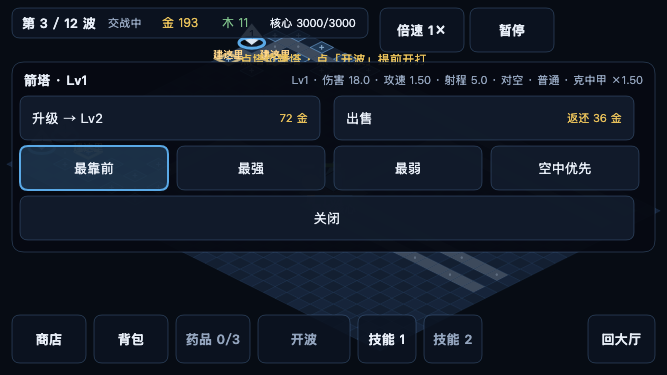
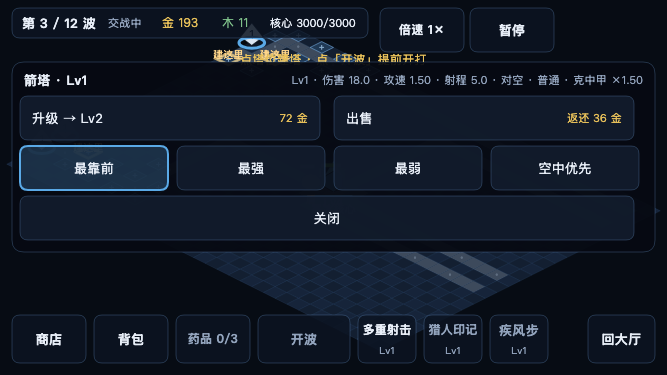
feat(minigame): 补两个功能缺口——第三颗技能键、上次配置一键开局
换了把尺子量（不再问「哪条路会崩」，而是「浏览器版有的，小游戏有没有」），抓到两个真缺口：

- 第三颗技能键：商店卖的「技能书·秘传」会解锁第三个技能，而底部那排写死了两颗
  （for i < 2）——买了等于白买，界面上一个字都没提。现在按内核的技能表画，
  名字/等级/冷却走 skillLevel(m, def) 那一个出口，键上写技能名 + Lv1/冷却秒数，
  未解锁的也摆着但灰掉（与浏览器版一致，玩家看得见「书能解锁它」）
- 上次配置一键开局（§2.1）：小游戏大厅从不记 lastChoice，选了噩梦难度重开就回普通。
  现在开局记一笔、大厅读回来，读之前过 normalizeChoice（§177：跨版本脏值不许把大厅带崩），
  上次那张图没解锁时只落回图、其余照旧沿用

用例 +3（技能布局 / 买书 E2E / lastChoice 三种情形），两条变异反证；样张重出。
npm test 309 → 312；minigame 6 条全过；主包 17 模块 / 359.3 KB。

diff --git a/src/minigame/game.js b/src/minigame/game.js
@@ -4,10 +4,10 @@
 // `index.html` + `styles.css` + `ui.js` 那套 DOM+CSS。这一步做的是把**平台差异**与**打包**解决掉，
 // 并把不依赖 DOM 的那一大半（内核、数据表、存档、联机协议、平台适配）先在小游戏里跑通。
 // 界面换 Canvas 是第 3 步，见 docs/minigame-port.md。
-import { DEFENSE_MAPS, MAPS, TICK_STEP } from '../data.js';
+import { DEFENSE_MAPS, MAPS, TICK_STEP, normalizeChoice } from '../data.js';
 import {
   buildTower, buyItem, castSkill, craftEquipment, createMatch, describe as describeMatch, equipItem,
-  enhanceItem, potionCount, repairTower, sellItem, sellTower, setPriority, startWaveEarly,
+  enhanceItem, potionCount, repairTower, sellItem, sellTower, setPriority, skillLevel, startWaveEarly,
   towerAtSlot, update, upgradeTower, usePotion,
 } from '../match.js';
 import { isMiniGame, onHide, onTouch, storage, viewport } from '../platform.js';
@@ -50,14 +50,20 @@ export function createLobbyModel(profile = loadProfile()) {
     const lock = mapLocked(profile, id);
     if (lock) locked[id] = lock.text;
   }
-  const mode = 'td';
+  /**
+   * §2.1「上次配置一键开局」：档案里存着上一局用过的模式 / 地图 / 难度 / 英雄 / 时长，就照它选。
+   * 过一遍 `normalizeChoice`（`data.js` 那一份归一化）——跨版本的脏值不许把大厅带崩（§177 的同一道边界）。
+   * 上次那张图要**这会儿还解锁着**才用：档案被重置过、或者版本换了锁法时落回该模式的第一张。
+   */
+  const last = normalizeChoice(profile.lastChoice ?? {});
+  const mode = last.mode;
   const pool = mode === 'defense' ? unlockedDef : unlockedTd;
   return {
     mode,
-    map: pool[0] ?? 'map_01',
-    difficulty: 'normal',
-    length: 'short',
-    hero: 'hero_warrior',
+    map: pool.includes(last.map) ? last.map : (pool[0] ?? (mode === 'defense' ? 'def_01' : 'map_01')),
+    difficulty: last.difficulty,
+    length: last.length,
+    hero: last.hero,
     profile,
     unlocked: [...unlockedTd, ...unlockedDef],
     locked,
@@ -192,6 +198,16 @@ export function startMinigame({ requestAnimationFrame: raf = globalThis.requestA
     const tutorial = m.mode === 'defense' || !isFirstRun(lobby.model.profile)
       ? null
       : createTutorial({ startedAt: 0 });
+    /**
+     * §2.1「上次配置一键开局」：把这一局用的那套配置记进档案（浏览器版 `main.js` 在 `startMatch`
+     * 里同一处干这件事）。下次打开大厅就照着选——小游戏以前从来不记，所以「上次选了噩梦难度」
+     * 每次重开都回到普通。存不了不影响这一局（与记档同一套写法）。
+     */
+    lobby.model = {
+      ...lobby.model,
+      profile: { ...lobby.model.profile, lastChoice: { ...pickLobbyKeys(lobby.model) } },
+    };
+    try { saveProfile(lobby.model.profile); } catch { /* 存不了就只在这一次生效 */ }
     return buildBattle(m, { tutorial });
   };
 
@@ -844,10 +860,22 @@ const describeBattleModel = (m) => ({
   gold: Math.round(m.gold), core: m.core.hp, coreMax: m.core.maxHp,
   result: m.result, length: m.length,
   canEarly: m.wave.phase === 'prep' && m.wave.timer > 0,
-  skills: m.hero.skillUnlocked,
   // 底部那排要显示的数量：药品格数（§5.5.3：共 3 格）与背包件数
   potionCount: potionCount(m),
   bagCount: m.inventory?.length ?? 0,
+  /**
+   * 技能键：**名字 / 等级 / 冷却都走内核那一个出口**（与浏览器版 `ui.js` 的 `renderSkills` 同一套：
+   * `hero.def.skills` + `thirdSkill`、`skillUnlocked`、`skillCd`、`skillLevel(m, def)`）。
+   *
+   * 小游戏这边以前只画两个写死的「技能 1 / 技能 2」——于是商店里卖的**技能书·秘传
+   * 把第三个技能解锁了，玩家却找不到那个按钮**（买了等于白买，界面上一个字都没提）。
+   */
+  skills: [...m.hero.def.skills, m.hero.def.thirdSkill].filter(Boolean).map((def, i) => ({
+    name: def.name,
+    locked: !m.hero.skillUnlocked[i],
+    cd: m.hero.skillCd?.[i] ?? 0,
+    lv: skillLevel(m, def),
+  })),
 });
 
 /** 回大厅时保留玩家刚选的模式/地图/难度/英雄（大厅的状态在进局那一刻被 Battle 接管了） */

diff --git a/src/minigame/battle.js b/src/minigame/battle.js
@@ -77,10 +77,17 @@ export function layoutBattle(model = {}) {
   items.push(model.result
     ? item('restart', 258, 315, 92, 48, '再开一局', { type: 'restart' })
     : item('early', 258, 315, 92, 48, '开波', { type: 'early' }, { disabled: !model.canEarly }));
-  for (let i = 0; i < 2; i += 1) {
-    items.push(item(`skill-${i}`, 358 + i * 66, 315, 58, 48, i === 0 ? '技能 1' : '技能 2',
-      { type: 'skill', index: i }, { disabled: !(model.skills?.[i] ?? i === 0) }));
-  }
+  /**
+   * 技能键：模型里给几个就画几个（首发 2 个 + 技能书解锁的第 3 个）。**写死两个是不行的**——
+   * 商店里卖的「技能书·秘传」会把第三个技能解锁，可按钮不存在的话玩家买了等于白买。
+   * 每颗键写：技能名 + 一行副标（冷却中写秒数，否则写等级）——与浏览器版技能键同一套读数（§132）。
+   */
+  const skills = model.skills ?? [{ name: '技能 1' }, { name: '技能 2' }];
+  skills.forEach((sk, i) => {
+    items.push(item(`skill-${i}`, 358 + i * 66, 315, 58, 48, sk.name ?? `技能 ${i + 1}`,
+      { type: 'skill', index: i },
+      { disabled: !!sk.locked || sk.cd > 0, sub: sk.cd > 0 ? `${Math.ceil(sk.cd)}s` : (sk.lv ? `Lv${sk.lv}` : '') }));
+  });
   items.push(item('lobby', 588, 315, 67, 48, '回大厅', { type: 'lobby' }));
   /**
    * 顶栏右侧那两个键：**倍速**与**暂停**（§1.9.3 的设置、§1.9.4 的「随时能停」）。
@@ -153,9 +160,15 @@ export function drawBattleHud(ctx, m, L, { selectedTower = 'tw_arrow', message =
     ctx.strokeStyle = on ? COLORS.accent : COLORS.panelLine;
     ctx.lineWidth = on ? 2 : 1;
     ctx.stroke();
-    text(ctx, it.label, it.x + it.w / 2, it.y + it.h / 2, {
-      size: 13, align: 'center', color: it.disabled ? COLORS.dim : COLORS.ink, weight: 'bold',
+    // 有副标就两行写（技能键的「名字 + Lv/冷却秒数」）；没有副标的键位置与以前一模一样
+    const cx = it.x + it.w / 2, cy = it.y + it.h / 2;
+    text(ctx, it.label, cx, it.sub ? cy - 9 : cy, {
+      size: it.label.length > 3 ? 12 : 13, align: 'center',
+      color: it.disabled ? COLORS.dim : COLORS.ink, weight: 'bold',
     });
+    if (it.sub) {
+      text(ctx, it.sub, cx, cy + 11, { size: 10, align: 'center', color: COLORS.dim });
+    }
   }
 
   if (message) {

diff --git a/docs/STATUS.md b/docs/STATUS.md
@@ -21,7 +21,7 @@
 ## 2. 一条命令复跑全部验证
 
 ```bash
-npm test        # 309 项：数值 / 波次 / 经济 / 装备 / 天赋 / 技能细节 / 存档 / 联机 / 快速匹配 / 触觉反馈 / 摇杆指令 / 溅射衰减 / 药品计数 / 解锁来源与流水 / 野外区分区 / 亚格渲染 / 克制提示 / 局内资源不外流 / 仇恨 1 秒 / 野外区文案 / 战绩分模式 / 面板可见性 / 浮层收起 / 房间码提示 / 空房保留窗口 / 联机指令出口（handler 逐个查）/ 畸形指令与限速 / 克制表与枚举对齐 / 联机镜像不落本地存档（§113） / 大厅按模式给选项（§115：防守没有「局内时长」） / 低特效档真的关脉冲（§116） / 怪物光环按半径结算（§117） / Boss 光环按地图开关（§118） / 逻辑帧步长只有一个定义（§119） / 协议版本两侧校验（§120） / 畸形 URL 参数不崩服务端（§121） / 别人的名字不执行（§122） / 名字长度截断（§122） / 畸形指令值不崩服务端（§123） / 房间码不可枚举（§124） / 名单不广播 uid（§125） / 调试钩子默认关（§126）与「只在本地生效」（§197）/  免费期无付费入口（§128） / 联机结算面板也写「声望 +N」（§130） / 通关转无尽的出口（§131） / 精研技能书真的 +1 级（§132） / 狂战药剂真的持续 30 秒（§133） / 防守模式 buff 生效与疾风步移速（§134） / 两模式英雄 tick 职责对齐（§135） / 亡语分裂在防守里也生效（§136） / 防守的怪也吃减速眩晕 DoT（§137） / 防守内容不许带未实现能力（§138） / 「继续上局」只在**真读得出来**时出现（§139 + §204） /  **疾行药剂在两个模式都生效（§144） / **回城冷却进存档且真的走满 30 秒（§147） / **联机修塔真的生效、TD 专属指令在防守房被拒（§148） / **联机结算的伤害占比不为空、防守占比条写中文名（§149） / **结算面板的掉落栏写中文名（§151） / **快速匹配排队时写明「在等」（§152） / **新手引导的门槛与「重看」（§153） / **文案里的数字与数据表对账（§155） / ****临时端口串门与僵尸根因（§157）** / **4★-6★ 图能从大厅选到（§158） / **真机视口下大厅动作行粘底（§159） / **结算面板出口也粘底（§160） / **真机视口下防守 HUD 紧凑排布（§161） / **真机视口下引导条不压操作行（§162） / **联机长局镜像换成 30 波表（§163）/**§130 偶发红改成确定性（§164） / **联机怪物血条分母（§165）** / **联机房英雄职业进配置（§166）** / **浸泡不变量补五项（§167） / **真机视口下防守人体工学（§168）** / **§2.2 地图表逐列对账（§169） / **其余五张数值表逐列对账（§170） / **真机上的双指缩放与双击回核心（§171） / **把量出的偏差写回设计文档（§172） / **复跑三张数字表（§173） / **协议消息类型两边都要有人用（§174） / **零读者的导出扫干净（§175）** / **用到的 class 都有样式规则（§176）** / **客户端开局参数归一化（§177：坏 URL 不白屏 + 不污染档案）** / **缺 seed 的房间不再是常数种子（§177）** / **提示音在真机手势里解锁、日志不再谎报（§178）** / **真机手势卫生：连点技能键/长按不再被浏览器抢走（§180）** / **HUD 按安全区收边、不再压进刘海（§181）** / **冒烟的 CDP 请求加上限、不再偶发挂死（§182）** / **存不了档时说一声（§183）** / **大厅里不再偷偷打那一局（§184：不跑模拟、不出怪、不记档）** / **竖屏兜底「请横屏」（§185）**…
+npm test        # 312 项：数值 / 波次 / 经济 / 装备 / 天赋 / 技能细节 / 存档 / 联机 / 快速匹配 / 触觉反馈 / 摇杆指令 / 溅射衰减 / 药品计数 / 解锁来源与流水 / 野外区分区 / 亚格渲染 / 克制提示 / 局内资源不外流 / 仇恨 1 秒 / 野外区文案 / 战绩分模式 / 面板可见性 / 浮层收起 / 房间码提示 / 空房保留窗口 / 联机指令出口（handler 逐个查）/ 畸形指令与限速 / 克制表与枚举对齐 / 联机镜像不落本地存档（§113） / 大厅按模式给选项（§115：防守没有「局内时长」） / 低特效档真的关脉冲（§116） / 怪物光环按半径结算（§117） / Boss 光环按地图开关（§118） / 逻辑帧步长只有一个定义（§119） / 协议版本两侧校验（§120） / 畸形 URL 参数不崩服务端（§121） / 别人的名字不执行（§122） / 名字长度截断（§122） / 畸形指令值不崩服务端（§123） / 房间码不可枚举（§124） / 名单不广播 uid（§125） / 调试钩子默认关（§126）与「只在本地生效」（§197）/  免费期无付费入口（§128） / 联机结算面板也写「声望 +N」（§130） / 通关转无尽的出口（§131） / 精研技能书真的 +1 级（§132） / 狂战药剂真的持续 30 秒（§133） / 防守模式 buff 生效与疾风步移速（§134） / 两模式英雄 tick 职责对齐（§135） / 亡语分裂在防守里也生效（§136） / 防守的怪也吃减速眩晕 DoT（§137） / 防守内容不许带未实现能力（§138） / 「继续上局」只在**真读得出来**时出现（§139 + §204） /  **疾行药剂在两个模式都生效（§144） / **回城冷却进存档且真的走满 30 秒（§147） / **联机修塔真的生效、TD 专属指令在防守房被拒（§148） / **联机结算的伤害占比不为空、防守占比条写中文名（§149） / **结算面板的掉落栏写中文名（§151） / **快速匹配排队时写明「在等」（§152） / **新手引导的门槛与「重看」（§153） / **文案里的数字与数据表对账（§155） / ****临时端口串门与僵尸根因（§157）** / **4★-6★ 图能从大厅选到（§158） / **真机视口下大厅动作行粘底（§159） / **结算面板出口也粘底（§160） / **真机视口下防守 HUD 紧凑排布（§161） / **真机视口下引导条不压操作行（§162） / **联机长局镜像换成 30 波表（§163）/**§130 偶发红改成确定性（§164） / **联机怪物血条分母（§165）** / **联机房英雄职业进配置（§166）** / **浸泡不变量补五项（§167） / **真机视口下防守人体工学（§168）** / **§2.2 地图表逐列对账（§169） / **其余五张数值表逐列对账（§170） / **真机上的双指缩放与双击回核心（§171） / **把量出的偏差写回设计文档（§172） / **复跑三张数字表（§173） / **协议消息类型两边都要有人用（§174） / **零读者的导出扫干净（§175）** / **用到的 class 都有样式规则（§176）** / **客户端开局参数归一化（§177：坏 URL 不白屏 + 不污染档案）** / **缺 seed 的房间不再是常数种子（§177）** / **提示音在真机手势里解锁、日志不再谎报（§178）** / **真机手势卫生：连点技能键/长按不再被浏览器抢走（§180）** / **HUD 按安全区收边、不再压进刘海（§181）** / **冒烟的 CDP 请求加上限、不再偶发挂死（§182）** / **存不了档时说一声（§183）** / **大厅里不再偷偷打那一局（§184：不跑模拟、不出怪、不记档）** / **竖屏兜底「请横屏」（§185）**…
 npm run soak    # 180 局全组合浸泡：运行期不变量 + 存档不动点 + 客户端镜像一致性
 npm run smoke   # 378 条真浏览器断言（**三个视口**、十一个面；含快速匹配、内存告警降级、真按下的短震动链路、防守摇杆拖动、点空地的塔位提示、克制提示与护甲预告、野外区掉落加成、防守战绩口径、日志面板让位/恢复、跨局浮层收起、攻城图的修塔按钮、秘传技能书的技能栏变化、优先级/速度/围墙/重置进度、HUD 数值跟随（7+3 处）、塔面板 X 与标题、再开一局、长局 30 波 HUD、真机视口下的轮盘/塔面板、房间码提示与镜像对齐、进不去房间转单人继续、被动掉线自动重连、**六条联机指令真的到服务端**、**§113 联机点「回大厅/再开一局」真的离房**、**§114 联机不假装暂停/加速、掉线写清 5 分钟**/**§115 防守模式不摆「局内时长」假选项**/**§116 低特效档真的关脉冲**/**§145 每次版式体检都查「两块 HUD 浮层不许叠在一起」**/**§153 新手引导门槛与「重看」（§153）/**设置面板按模式取舍选项（§154）/**文案里的数字与数据表对账（§155）**/**临时端口串门与僵尸根因（§157）/**4★-6★ 图能从大厅选到（§158）/**真机视口下大厅动作行粘底（§159）/**结算面板出口也粘底（§160）**/**真机视口下防守 HUD 紧凑排布（§161）**/**真机视口下引导条不压操作行（§162）/**联机长局镜像换成 30 波表（§163）/**§130 偶发红改成确定性（§164）/**联机怪物血条分母（§165）**/**联机房英雄职业进配置（§166）**/**浸泡不变量补五项（§167）/**真机视口下防守人体工学（§168）**/**§2.2 地图表逐列对账（§169）/**其余五张数值表逐列对账（§170）/**真机上的双指缩放与双击回核心（§171）**/**客户端坏 URL 不白屏（§177）**/**提示音在真机策略下真的响了（§178）**/**真机手势卫生（§180）**/**HUD 不进刘海安全区（§181）**/**大厅不跑模拟（§184）**/**竖屏有「请横屏」兜底（§185）**/**低端 4G 模拟下首屏 ≤3 秒（§186）** / **「再开一局」连打的第二局也记档（§188）** / **浏览器里真的把 12 波打完、结算与档案都对（§189）** / **防守也真的守满 4 轮；城堡陷落后「继续（无尽）」不再挂着（§190）** / **长局 30 波也在浏览器里真的打完（§191，含一条参考打法在 4★ 长局末波输掉的观测）** / **中途加入已在打的房（§192）** / **§130 那条「声望 +N」的偶发红改成确定性（§193：根因是房间空着时就记了结算）** / **`sim` 调试钩子只在本地生效（§197：补上 §126 那条「非 URL 开关」的规矩）** / **连打不涨：6 局 DOM/堆都平，并把「每局不长 DOM」钉进冒烟（§198）** / **服务端不再攒退役房间（§199：删掉只写不读的 `stopped` 表）** / **画布内容与「画面在动」也有检查了（§200–§202）** / **第三个视口 568×320（§203）** / **「能读的才算有存档」补齐后半（§204）** / **档案形状归一化（§205）** / **日志面板的 innerHTML 先转义（§206：那一处最容易新增玩家名字）**
 npm run waves   # §8.5 逐波余量（4 人基准）
@@ -194,7 +194,7 @@ npm run bench / bandwidth   # 容量 / 带宽预算（§110/§111：两个工具
 |---|---|---|---|
 | 1 | **按 `game-design.md` 的已确认需求开发** | ✅ | 设计文档里**打勾的验收清单**逐条有实现与检查（见 §1 那张表）；**所有数值表逐列对过账**（§169/§170，改一处就红）；**原「等拍板」的 33 条已全部拍板并落地**（§3.1 + 验证记录 §207–§209；文档类的 20 条在附录 B/C 与对应小节补了口径） |
 | 2 | **一直开发到能玩为止** | ✅ | 浏览器里**真的**跑通过整条链路：TD 短局通关（§189：7.4 分钟、结算面板、记档、解锁 map_02）、防守守满 4 轮转无尽（§190）、**长局 30 波**（§191：32.5 分钟）；联机建房 / 快速匹配 / 中途加入第 3 波（§192）/ 掉线重连 / 离场（§102/§113/§114）；三个视口（1334×750 / 667×375 / **568×320**）的版式与人体工学（§203、§145）；手机竖屏有「请横屏」兜底（§185） |
-| 3 | **自己去验证错误** | ✅ | 验证记录 **§1–§230**：每条发现都带「一个能失败的检查」+ 变异反证；最新一轮全量复跑：`npm test` **309 项** · `npm run smoke` **378 条**（三个视口、十一个面）· `soak` 180 局（119 胜 61 负，不变量一条没破）· `matrix` 全绿（**并检查首发三图普通档 8-12 分钟**）· `defense` 12.7 分钟/4 轮 · `waves` 12/12 · `defense-matrix` 36 局守住 22（**验收线 8 格全过**）· `bandwidth` 6.61 KB/s（预算 15）· `bench` 1699k 实体·帧/秒 · `tutorial` 3/3 达标 |
+| 3 | **自己去验证错误** | ✅ | 验证记录 **§1–§231**：每条发现都带「一个能失败的检查」+ 变异反证；最新一轮全量复跑：`npm test` **312 项** · `npm run smoke` **378 条**（三个视口、十一个面）· `soak` 180 局（119 胜 61 负，不变量一条没破）· `matrix` 全绿（**并检查首发三图普通档 8-12 分钟**）· `defense` 12.7 分钟/4 轮 · `waves` 12/12 · `defense-matrix` 36 局守住 22（**验收线 8 格全过**）· `bandwidth` 6.61 KB/s（预算 15）· `bench` 1699k 实体·帧/秒 · `tutorial` 3/3 达标 |
 
 **仍然在别人手里的（不是欠债，是等输入）**：
 

diff --git a/README.md b/README.md
@@ -12,7 +12,7 @@
 M0.5 可玩原型（TD 塔防首发切片）：等距伪 3D 横屏战场、12 波、4 种塔各 3 级、4 英雄（含 2 主动技 + 技能书解锁第 3 技）、9 种怪物、装备掉落与一键合成、商店与药品、暂停与加速。
 
 ```bash
-npm test        # 309 项（含小游戏打包产物的检查）：数值 / 波次 / 经济 / 人数缩放（§1.6：怪量·生命·金币，联机房按名册定档）/ 地形（§2.3：岩浆挡弹道、沼泽减速与射程 −1、高地射程 +1.5 攻击 +10%）/ 难度四列（§2.4：生命·攻击·出怪速度·掉落）/ 局外人物等级（初始金币 + 复活加速）/ 武器 4 类（单体/群伤/减速/对空，特性真的生效）· 装备（主属性与词条真的进战斗 · 强化 +1..+5 · 自由换装 · 出售返还）/ DPS 线（裸装 ≤2.5 座塔 + **满装 ≤4 座**，§3.1 #3）/ 掉落节奏（含橙装来源拆账）/ 概率上限与闪避 / 容错率 / 整局 / 天赋接线（钢铁意志·咒术精通·法力涌动）/ 技能细节（制裁之锤对 Boss 眩晕减半、猎人印记加成英雄普攻）/ 商店（3 格背包·波次中读条 3 秒·回城卷轴·**防守商店只在基地内**〔§3.1 #14〕·群疗符禁售〔#20〕）/ 指令表双向对齐（含 **`leave`**）/ 主动退房与掉线的区别（§3.1 #23）/ 设备级 token：冒用 uid 被拒 + 本机换身份重连（§3.1 #24）/ **深链进锁着的图按档案归一化**（§3.1 #29）/ 中途加入窗口（§12.3）/ 快速匹配（§1.5：分桶·满员即开·45 秒窗口）/ 攻击优先级（§8.3 四种模式）/ 克制提示（§3.8·§6.2：提示由克制表算出）/ 克制表与枚举对齐（§6.2）/ 实体传送点（§2.6）/ 上次配置一键开局（§2.1） / 局内资源不外流（§12.6）/ 战绩分模式（§12.6：TD 最快通关 / 防守守住轮次）/ 仇恨 1 秒窗口（§7.7：脱离后还要被追打 1 秒）/ 野外区文案（§2.6：区名 + 等级段 + 掉落加成）/ 面板可见性（§14.3：日志让位由 CSS 表达）/ 跨局浮层收起（§95：开新局前收掉轮盘与塔面板）/ 房间码没命中的提示与房间配置对齐（§1.5 / §102）/ 空房保留 5 分钟边界（§10.3）/ 联机指令出口（§10.1：键盘与按钮同一条路，且每个 handler 都有 net 分支）/ 畸形指令与限速（§12.7 / §108）/ 防守摇杆指令（§1.9.1·§10.1：目标格算法 + 贴墙退化）/ 溅射距离衰减（§7.1：落点 100% → 边缘 50%）/ 野外区分区掉落（§2.6·§12.8：dropBonus）/ 解锁来源与货币流水（§1.7.3）/ 亚格渲染（§10.3：怪与人物按 dist/carry 画，不再跳格）/ 快照序号与补发（§10.3 序号跳跃 → 请求全量） / 渲染（相机·小地图·地图缩略图）/ HUD / 联机 / 带宽 / 重连 / 存档 / 解锁 / 队伍色 / 预测 / 性能护栏 / 不卡死（每局都必须能结束）/ 复活保护 / 触觉反馈 / 药品计数（§5.5） / 联机镜像不落本地存档（§113） / 大厅按模式给选项（§115：防守没有「局内时长」） / 低特效档真的关脉冲（§116） / 怪物光环按半径结算（§117） / Boss 光环按地图开关（§118） / 逻辑帧步长只有一个定义（§119） / 协议版本两侧校验（§120） / 畸形 URL 参数不崩服务端（§121） / 别人的名字不执行（§122） / 名字长度截断（§122） / 畸形指令值不崩服务端（§123） / 房间码不可枚举（§124） / 名单不广播 uid（§125） / 调试钩子默认关（§126） / 免费期无付费入口（§128） / 联机结算面板也写「声望 +N」（§130） / 通关转无尽的出口（§131） / 精研技能书真的 +1 级（§132） / 狂战药剂真的持续 30 秒（§133） / 防守模式 buff 生效与疾风步移速（§134） / 两模式英雄 tick 职责对齐（§135） / 亡语分裂在防守里也生效（§136） / 防守的怪也吃减速眩晕 DoT（§137） / 防守内容不许带未实现能力（§138） / **疾行药剂在两个模式都生效（§144）** / **回城冷却进存档且真的走满 30 秒（§147）** / **联机修塔真的生效、TD 专属指令在防守房被拒（§148） / **联机结算的伤害占比不为空、防守占比条写中文名（§149） / **结算面板的掉落栏写中文名（§151） / **快速匹配排队时写明「在等」（§152） / **新手引导的门槛与「重看」（§153）** / **设置面板按模式取舍选项（§154）** / **文案里的数字与数据表对账（§155） / ****临时端口串门与僵尸 npm test 的根因（§157）** / **4★-6★ 图能从大厅选到（§158） / **真机视口下大厅动作行粘底（§159） / **结算面板出口也粘底（§160） / **真机视口下防守 HUD 换紧凑排布（§161） / **真机视口下引导条不压操作行（§162） / **联机长局的镜像换成 30 波表（§163） / **§130 偶发红改成确定性（§164） / **联机怪物血条的分母由服务端给（§165） / **联机房的英雄职业也进配置（§166） / **浸泡的不变量补五项（§167） / **真机视口下防守人体工学也量了（§168） / **§2.2 地图表逐列对账（§169） / **其余五张数值表逐列对账（§170） / **真机上的双指缩放与双击回核心（§171） / **把量出的偏差写回设计文档（§172） / **复跑三张数字表（§173） / **协议消息类型两边都要有人用（§174） / **零读者的导出扫干净（§175）** / **用到的 class 都有样式规则（§176）** / **客户端开局参数归一化：坏 URL 不再白屏、不再污染档案（§177）** / **提示音在真机手势里解锁、日志不再谎报（§178）** / **真机手势卫生：连点技能键不再触发双击缩放（§180）** / **HUD 不再压进刘海（§181：按 `env(safe-area-inset-*)` 收边）** / **存不了档时说一声（§183）** / **大厅里不再偷偷打那一局（§184：不跑模拟、不记档）** / **竖屏兜底「请横屏」（§185）**
+npm test        # 312 项（含小游戏打包产物的检查）：数值 / 波次 / 经济 / 人数缩放（§1.6：怪量·生命·金币，联机房按名册定档）/ 地形（§2.3：岩浆挡弹道、沼泽减速与射程 −1、高地射程 +1.5 攻击 +10%）/ 难度四列（§2.4：生命·攻击·出怪速度·掉落）/ 局外人物等级（初始金币 + 复活加速）/ 武器 4 类（单体/群伤/减速/对空，特性真的生效）· 装备（主属性与词条真的进战斗 · 强化 +1..+5 · 自由换装 · 出售返还）/ DPS 线（裸装 ≤2.5 座塔 + **满装 ≤4 座**，§3.1 #3）/ 掉落节奏（含橙装来源拆账）/ 概率上限与闪避 / 容错率 / 整局 / 天赋接线（钢铁意志·咒术精通·法力涌动）/ 技能细节（制裁之锤对 Boss 眩晕减半、猎人印记加成英雄普攻）/ 商店（3 格背包·波次中读条 3 秒·回城卷轴·**防守商店只在基地内**〔§3.1 #14〕·群疗符禁售〔#20〕）/ 指令表双向对齐（含 **`leave`**）/ 主动退房与掉线的区别（§3.1 #23）/ 设备级 token：冒用 uid 被拒 + 本机换身份重连（§3.1 #24）/ **深链进锁着的图按档案归一化**（§3.1 #29）/ 中途加入窗口（§12.3）/ 快速匹配（§1.5：分桶·满员即开·45 秒窗口）/ 攻击优先级（§8.3 四种模式）/ 克制提示（§3.8·§6.2：提示由克制表算出）/ 克制表与枚举对齐（§6.2）/ 实体传送点（§2.6）/ 上次配置一键开局（§2.1） / 局内资源不外流（§12.6）/ 战绩分模式（§12.6：TD 最快通关 / 防守守住轮次）/ 仇恨 1 秒窗口（§7.7：脱离后还要被追打 1 秒）/ 野外区文案（§2.6：区名 + 等级段 + 掉落加成）/ 面板可见性（§14.3：日志让位由 CSS 表达）/ 跨局浮层收起（§95：开新局前收掉轮盘与塔面板）/ 房间码没命中的提示与房间配置对齐（§1.5 / §102）/ 空房保留 5 分钟边界（§10.3）/ 联机指令出口（§10.1：键盘与按钮同一条路，且每个 handler 都有 net 分支）/ 畸形指令与限速（§12.7 / §108）/ 防守摇杆指令（§1.9.1·§10.1：目标格算法 + 贴墙退化）/ 溅射距离衰减（§7.1：落点 100% → 边缘 50%）/ 野外区分区掉落（§2.6·§12.8：dropBonus）/ 解锁来源与货币流水（§1.7.3）/ 亚格渲染（§10.3：怪与人物按 dist/carry 画，不再跳格）/ 快照序号与补发（§10.3 序号跳跃 → 请求全量） / 渲染（相机·小地图·地图缩略图）/ HUD / 联机 / 带宽 / 重连 / 存档 / 解锁 / 队伍色 / 预测 / 性能护栏 / 不卡死（每局都必须能结束）/ 复活保护 / 触觉反馈 / 药品计数（§5.5） / 联机镜像不落本地存档（§113） / 大厅按模式给选项（§115：防守没有「局内时长」） / 低特效档真的关脉冲（§116） / 怪物光环按半径结算（§117） / Boss 光环按地图开关（§118） / 逻辑帧步长只有一个定义（§119） / 协议版本两侧校验（§120） / 畸形 URL 参数不崩服务端（§121） / 别人的名字不执行（§122） / 名字长度截断（§122） / 畸形指令值不崩服务端（§123） / 房间码不可枚举（§124） / 名单不广播 uid（§125） / 调试钩子默认关（§126） / 免费期无付费入口（§128） / 联机结算面板也写「声望 +N」（§130） / 通关转无尽的出口（§131） / 精研技能书真的 +1 级（§132） / 狂战药剂真的持续 30 秒（§133） / 防守模式 buff 生效与疾风步移速（§134） / 两模式英雄 tick 职责对齐（§135） / 亡语分裂在防守里也生效（§136） / 防守的怪也吃减速眩晕 DoT（§137） / 防守内容不许带未实现能力（§138） / **疾行药剂在两个模式都生效（§144）** / **回城冷却进存档且真的走满 30 秒（§147）** / **联机修塔真的生效、TD 专属指令在防守房被拒（§148） / **联机结算的伤害占比不为空、防守占比条写中文名（§149） / **结算面板的掉落栏写中文名（§151） / **快速匹配排队时写明「在等」（§152） / **新手引导的门槛与「重看」（§153）** / **设置面板按模式取舍选项（§154）** / **文案里的数字与数据表对账（§155） / ****临时端口串门与僵尸 npm test 的根因（§157）** / **4★-6★ 图能从大厅选到（§158） / **真机视口下大厅动作行粘底（§159） / **结算面板出口也粘底（§160） / **真机视口下防守 HUD 换紧凑排布（§161） / **真机视口下引导条不压操作行（§162） / **联机长局的镜像换成 30 波表（§163） / **§130 偶发红改成确定性（§164） / **联机怪物血条的分母由服务端给（§165） / **联机房的英雄职业也进配置（§166） / **浸泡的不变量补五项（§167） / **真机视口下防守人体工学也量了（§168） / **§2.2 地图表逐列对账（§169） / **其余五张数值表逐列对账（§170） / **真机上的双指缩放与双击回核心（§171） / **把量出的偏差写回设计文档（§172） / **复跑三张数字表（§173） / **协议消息类型两边都要有人用（§174） / **零读者的导出扫干净（§175）** / **用到的 class 都有样式规则（§176）** / **客户端开局参数归一化：坏 URL 不再白屏、不再污染档案（§177）** / **提示音在真机手势里解锁、日志不再谎报（§178）** / **真机手势卫生：连点技能键不再触发双击缩放（§180）** / **HUD 不再压进刘海（§181：按 `env(safe-area-inset-*)` 收边）** / **存不了档时说一声（§183）** / **大厅里不再偷偷打那一局（§184：不跑模拟、不记档）** / **竖屏兜底「请横屏」（§185）**
 npm run selfplay  # 无头打一整局，打印每波推进与结算（默认 4 人基准；FF_PLAYERS=1 切单人档，§1.6）
 npm run bandwidth # 带宽实测（默认 8 秒，可传秒数）
 npm run bench     # 容量实测（默认 200 实体 × 600 tick；§111 起：过程里场上掉到目标的 90% 以下就 exit 1，不再拿空场的吞吐当结论）

diff --git a/docs/minigame-port.md b/docs/minigame-port.md
@@ -172,7 +172,7 @@ npm run minigame         # 先打包再跑本地验收（假 wx）
 ```bash
 npm run minigame          # 打包 + 假 wx 验收（含「大厅画出来了 / 触摸能选中」6 条）
 npm run minigame:preview  # 出七张样张（大厅 / 战场 / 塔 / 商店 / 结算 / 暂停 / 防守）
-npm test                  # 309 项：小游戏这一层的大厅 / 战场 / 建造 / 商店 / 结算 / 暂停 / 继续上局 / 防守 / 新手引导 / 相机
+npm test                  # 312 项：小游戏这一层的大厅 / 战场 / 建造 / 商店 / 结算 / 暂停 / 继续上局 / 防守 / 新手引导 / 相机
 ```
 
 ## 6. 发布前还差什么（非代码，都要你那边办）
@@ -225,7 +225,7 @@ npm test                  # 309 项：小游戏这一层的大厅 / 战场 / 建
 ```bash
 npm run minigame          # 打包 + 假 wx 本地验收（6 条：环境自检 / 内核等价性 / 模块清单 / 大厅画出来了 / 触摸能选中 / 点开局能进局）
 npm run minigame:preview  # 本机 Chrome 出七张样张（docs/testing/screenshots/minigame-*.png）
-npm test                  # 309 项，含小游戏这几屏的布局 / 命中 / 状态迁移 / 记档
+npm test                  # 312 项，含小游戏这几屏的布局 / 命中 / 状态迁移 / 记档
 npm run smoke             # 378 条真浏览器断言（浏览器那一侧的界面仍然按浏览器验）
 ```
 
@@ -432,3 +432,23 @@ STATUS §3.1 #33 拍板过一件事：**最小支持视口 = 667×375**，比它
 改法是把「把一局装进战场」合并成**一个**构建口（`buildBattle`），开局与续档都走它。
 验收见 `tests/minigame-resume.test.js` 新增的两条：续档之后面板里的行要真的能用、
 防守局的存档续回来还是防守那一屏（回城 / 城堡 / 第 N 轮）。两条各做过变异反证。
+
+### 5.2.14 两个功能缺口（已完成 · 2026-09-23）：买了书用不了、上次的配置记不住
+
+清尾时拿「浏览器版有、小游戏这边有没有」逐条对，补上两个：
+
+* **第三颗技能键**：商店里卖的那本「技能书·秘传」会把第三个技能解锁，而小游戏的底部那排
+  **写死了两颗**「技能 1 / 技能 2」——**买了书等于白买**，界面上一个字都没提（比不卖还糟）。
+  现在按内核给的技能表画（`hero.def.skills` + `thirdSkill`），名字、等级、冷却全部走内核那一个出口
+  （`skillLevel(m, def)`，与浏览器版 `ui.js` 的 `renderSkills` 同一套）：键上写技能名，
+  下面一行写 `Lv1` 或冷却秒数，没解锁/冷却中一律灰掉。浏览器版一开始就摆着那颗灰键，现在也一样——
+  玩家能看见「有这么个技能，书能解锁它」。
+* **上次配置一键开局**（§2.1）：浏览器版把上一局用的模式 / 地图 / 难度 / 英雄 / 时长记进档案，
+  下次打开照着选。小游戏以前从来不记，于是「上次选了噩梦难度」重开就回到普通。
+  现在开局时记一笔，大厅读回来；读之前过 `normalizeChoice`（§177 那道边界：跨版本的脏值不许把大厅带崩），
+  并且**上次那张图这号人物没解锁时只落回地图、其余照旧沿用**。
+
+**验收**：`tests/minigame-battle.test.js` 加两条（布局：三颗键的名字 / `Lv` / 冷却秒数 / 灰态 / 不压「回大厅」；
+闭环：法师开局 → 买书 → 第三颗键从灰变亮 → 点下去真的放出来进 40 秒冷却）、
+`tests/minigame-lobby.test.js` 加一条（沿用 / 图没解锁只落回图 / 跨版本脏值一律默认）。各做过变异反证。
+样张里战场那张现在能看到三颗带名字的键（多重射击 / 猎人印记 / 疾风步，最后一颗是灰的）。

diff --git a/docs/testing/m0.5-td-prototype.md b/docs/testing/m0.5-td-prototype.md
@@ -9269,3 +9269,43 @@ HUD 布局（热区 ≥44、不压胶囊区、**摇杆有效区与 HUD 键不重
 ### 230.1 数字
 
 `npm test` 沿用 **309 项** · `npm run minigame:preview` 7 张全出（13 秒）· 主包未变。
+
+## 231. 小游戏补两个功能缺口：第三颗技能键、上次配置一键开局
+
+清尾时换了把尺子量：不再问「哪条路会崩」，而是问「**浏览器版有的东西，小游戏这边有没有**」。
+逐条对下来抓到两个真的缺口（都影响玩法，不是观感）：
+
+### 231.1 买了技能书却用不了（比不卖更糟）
+
+商店里那本「技能书·秘传」会把第三个技能解锁，而小游戏底部那排**写死两颗**——`for (let i = 0; i < 2; i++)`。
+于是**买了等于白买**：钱花了、内核也解锁了，界面上一个字都没提。这比不卖那本书更糟——
+玩家会怀疑自己看错了。
+
+改法与浏览器版对齐：按内核给的技能表画（`hero.def.skills` + `thirdSkill`），
+名字 / 等级 / 冷却全部走**同一个出口**（`skillLevel(m, def)`，浏览器版 `ui.js` 的 `renderSkills` 用的就是它），
+键上写技能名、下面一行写 `Lv1` 或冷却秒数（HUD 的按钮因此学会了「两行字」这一种画法）。
+没解锁的技能**也摆着、但是灰的**——与浏览器版一样，玩家看得见「有这么个技能，书能解锁它」。
+
+### 231.2 上次的配置记不住（§2.1）
+
+浏览器版把上一局用的模式 / 地图 / 难度 / 英雄 / 时长记进档案的 `lastChoice`，下次打开照着选。
+小游戏的大厅是**从零重画的**，这条没接：选了噩梦难度重开就回到普通。
+现在开局时记一笔（与浏览器版同一个时机），大厅读回来——读之前过 `normalizeChoice`
+（§177 那道边界：跨版本的脏值不许把大厅带崩），并且**上次那张图这号人物没解锁时只落回地图**，
+其余（难度 / 英雄 / 时长）照旧沿用。
+
+### 231.3 检查
+
+| 用例 | 钉住什么 |
+|---|---|
+| `小游戏技能键：名字 / 等级 / 冷却都从内核取，解锁几个就画几个` | 三颗键的名字与 `Lv`/`8s` 副标、冷却中灰掉、不压「回大厅」；只有两个技能的英雄不会凭空多一颗 |
+| `小游戏技能键：商店买了「技能书·秘传」之后…` | 闭环：法师开局 → 买书 → 第三颗键从灰变亮 → 点下去真的进 40 秒冷却（选法师是因为他的第三技能空场也能放，测的就是「键能不能用」） |
+| `小游戏大厅：上次那套配置（§2.1）…` | 沿用；图没解锁只落回图；跨版本脏值一律默认且不抛 |
+
+**变异反证**：把技能键写死成两颗 → 第一条红（`三个技能要三颗键`）；
+把 `lastChoice` 那一行换成 `normalizeChoice({})`（等于没记）→ 第三条红。
+
+### 231.4 数字
+
+`npm test` 309 → **312 项** · `npm run minigame` 6 条全过 · 主包 17 个模块 / 359.3 KB（4MB 上限的 8.8%）·
+样张重出（战场那张现在有三颗带名字的键）· 浏览器侧一行没动。
